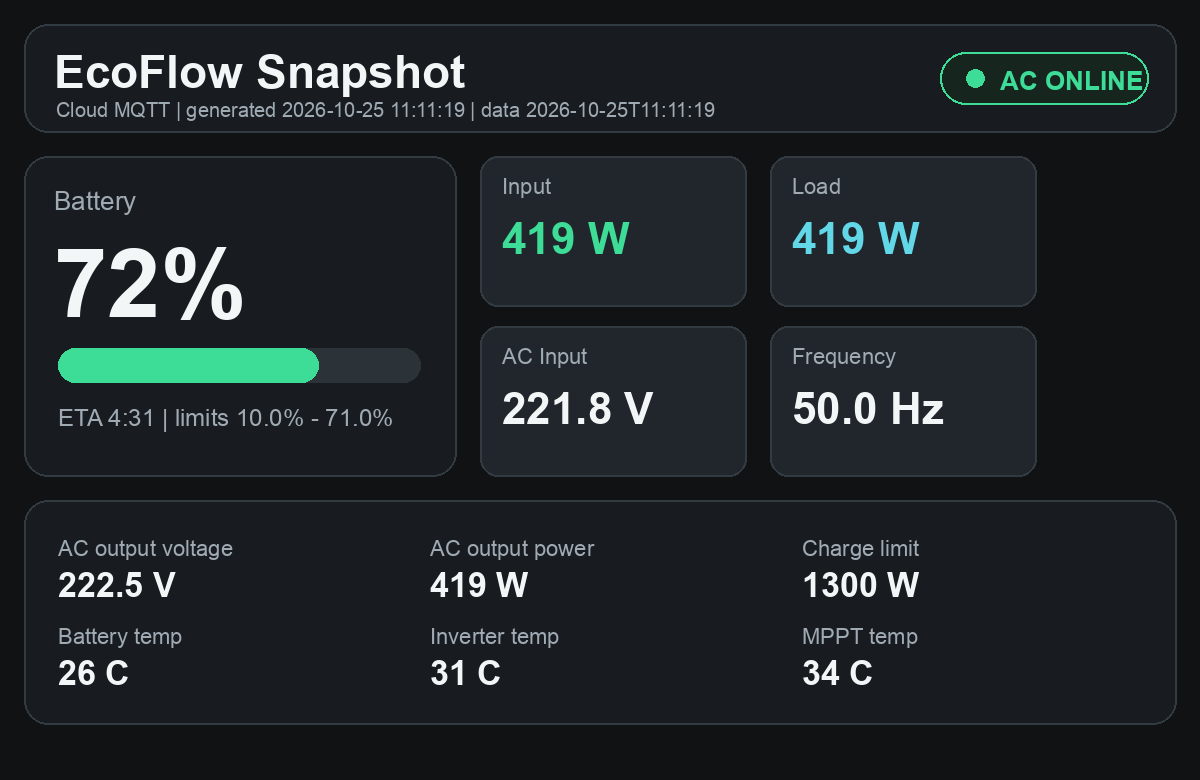
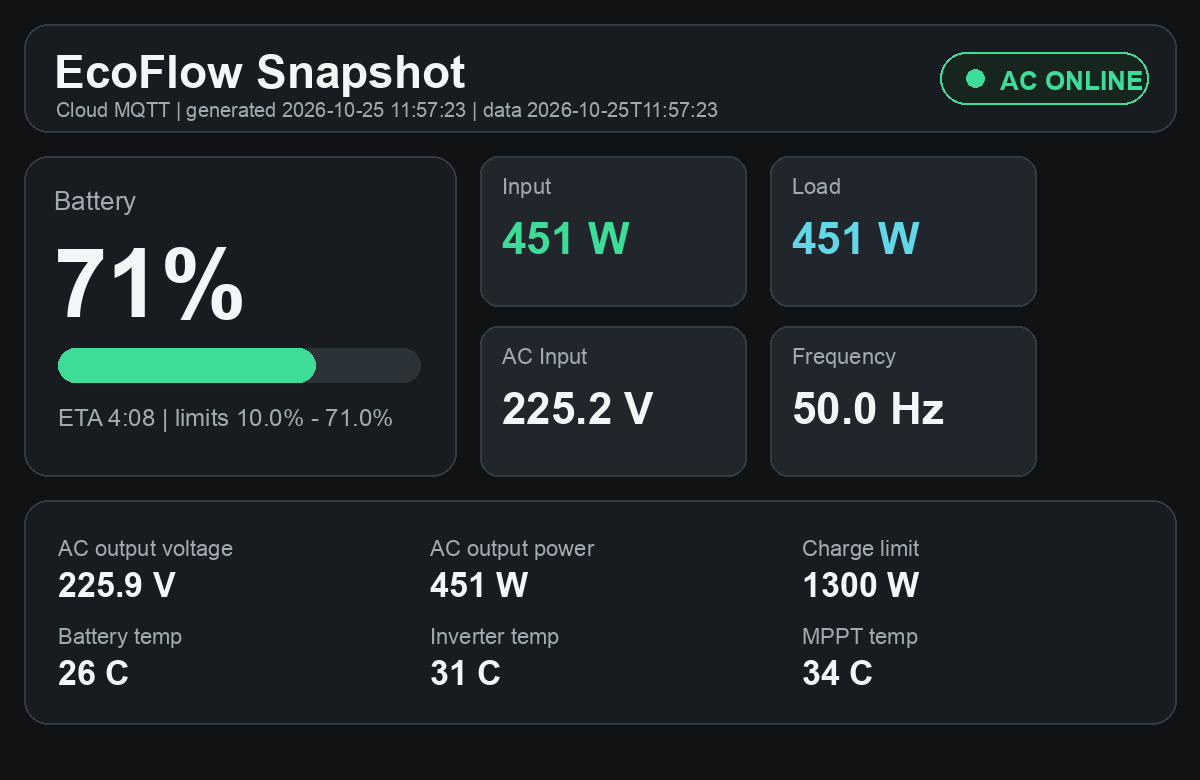
Update EcoFlow dashboard 2026-10-25 11:57:24

diff --git a/index.html b/index.html
@@ -75,7 +75,7 @@
       overflow: hidden;
       margin-top: 14px;
     }
-    .fill { width: 72%; height: 100%; background: linear-gradient(90deg, var(--green), var(--cyan)); }
+    .fill { width: 71%; height: 100%; background: linear-gradient(90deg, var(--green), var(--cyan)); }
     .cards {
       display: grid;
       grid-template-columns: repeat(4, minmax(0, 1fr));
@@ -177,7 +177,7 @@
   <header>
     <div>
       <h1>EcoFlow Snapshot</h1>
-      <div class="sub">Cloud MQTT · generated 2026-10-25T11:11:19 · data 2026-10-25T11:11:19</div>
+      <div class="sub">Cloud MQTT · generated 2026-10-25T11:57:23 · data 2026-10-25T11:57:23</div>
     </div>
     <div class="status online"><span class="dot"></span><span>AC online</span></div>
   </header>
@@ -187,22 +187,22 @@
   <div class="grid">
     <section>
       <h2>Battery</h2>
-      <div class="value">72%</div>
+      <div class="value">71%</div>
       <div class="battery"><div class="fill"></div></div>
-      <div class="row"><span>ETA</span><span>4:31</span></div>
+      <div class="row"><span>ETA</span><span>4:08</span></div>
       <div class="row"><span>SOC limits</span><span>10.0% - 71.0%</span></div>
     </section>
     <section>
       <h2>AC</h2>
-      <div class="row"><span>Input voltage</span><span>221.8 V</span></div>
+      <div class="row"><span>Input voltage</span><span>225.2 V</span></div>
       <div class="row"><span>Input frequency</span><span>50.0 Hz</span></div>
-      <div class="row"><span>Output voltage</span><span>222.5 V</span></div>
+      <div class="row"><span>Output voltage</span><span>225.9 V</span></div>
     </section>
   </div>
 
   <div class="cards">
-    <div class="card"><span class="label">Input</span><span class="value">419 W</span></div>
-    <div class="card"><span class="label">Load</span><span class="value">419 W</span></div>
+    <div class="card"><span class="label">Input</span><span class="value">451 W</span></div>
+    <div class="card"><span class="label">Load</span><span class="value">451 W</span></div>
     <div class="card"><span class="label">Battery temp</span><span class="value">26°C</span></div>
     <div class="card"><span class="label">Inverter temp</span><span class="value">31°C</span></div>
   </div>
@@ -212,13 +212,13 @@
       <h2>Останні 24 години</h2>
       <div class="daily-grid">
         <div class="daily-item"><span class="label">Напруга min / max</span><strong>222 V / 231 V</strong><small>25.10 11:11 / 25.10 04:35</small></div>
-        <div class="daily-item"><span class="label">SOC min / max</span><strong>72% / 80%</strong><small>25.10 08:55 / 24.10 12:33</small></div>
+        <div class="daily-item"><span class="label">SOC min / max</span><strong>71% / 79%</strong><small>25.10 11:57 / 24.10 13:04</small></div>
         <div class="daily-item"><span class="label">Пік навантаження</span><strong>637 W</strong><small>24.10 17:23</small></div>
         <div class="daily-item"><span class="label">Зарядний ліміт</span><strong>1300 W</strong><small>пік входу 637 W · 49% ліміту</small></div>
         <div class="daily-item"><span class="label">Заряджання</span><strong>0 сек</strong><small>--</small></div>
         <div class="daily-item"><span class="label">Розряджання</span><strong>0 сек</strong><small>--</small></div>
-        <div class="daily-item"><span class="label">Енергія вхід / вихід</span><strong>425 Wh / 425 Wh</strong><small>оцінка за sample-ами</small></div>
-        <div class="daily-item"><span class="label">Частота min / max</span><strong>50.0 Hz / 50.0 Hz</strong><small>24.10 12:33 / 24.10 12:33</small></div>
+        <div class="daily-item"><span class="label">Енергія вхід / вихід</span><strong>418 Wh / 418 Wh</strong><small>оцінка за sample-ами</small></div>
+        <div class="daily-item"><span class="label">Частота min / max</span><strong>50.0 Hz / 50.0 Hz</strong><small>24.10 13:04 / 24.10 13:04</small></div>
       </div>
     </section>
     
@@ -249,24 +249,24 @@
   &quot;ok&quot;: true,
   &quot;source&quot;: &quot;Cloud MQTT&quot;,
   &quot;device&quot;: &quot;DELTA Pro&quot;,
-  &quot;timestamp&quot;: &quot;2026-10-25T11:11:19&quot;,
+  &quot;timestamp&quot;: &quot;2026-10-25T11:57:23&quot;,
   &quot;grid&quot;: true,
   &quot;battery&quot;: {
-    &quot;soc&quot;: 72,
+    &quot;soc&quot;: 71,
     &quot;min&quot;: 10.0,
     &quot;max&quot;: 71.0,
-    &quot;eta&quot;: &quot;4:31&quot;
+    &quot;eta&quot;: &quot;4:08&quot;
   },
   &quot;power&quot;: {
-    &quot;in&quot;: 419,
-    &quot;out&quot;: 419,
-    &quot;acOut&quot;: 419,
+    &quot;in&quot;: 451,
+    &quot;out&quot;: 451,
+    &quot;acOut&quot;: 451,
     &quot;chargeLimit&quot;: 1300
   },
   &quot;ac&quot;: {
-    &quot;inputVoltage&quot;: 221.779,
+    &quot;inputVoltage&quot;: 225.151,
     &quot;inputFreq&quot;: 50.0,
-    &quot;outputVoltage&quot;: 222.539
+    &quot;outputVoltage&quot;: 225.922
   },
   &quot;temps&quot;: {
     &quot;battery&quot;: 26,
@@ -392,15 +392,15 @@
   &quot;telemetry&quot;: {
     &quot;window&quot;: &quot;24h&quot;,
     &quot;sample_count&quot;: 33,
-    &quot;from&quot;: &quot;2026-10-24T12:33:45&quot;,
-    &quot;to&quot;: &quot;2026-10-25T11:11:19&quot;,
+    &quot;from&quot;: &quot;2026-10-24T13:04:16&quot;,
+    &quot;to&quot;: &quot;2026-10-25T11:57:23&quot;,
     &quot;latest&quot;: {
       &quot;mode&quot;: &quot;idle&quot;,
       &quot;grid&quot;: true,
-      &quot;soc&quot;: 72.0,
-      &quot;ac_v&quot;: 221.779,
-      &quot;in_w&quot;: 419.0,
-      &quot;out_w&quot;: 419.0,
+      &quot;soc&quot;: 71.0,
+      &quot;ac_v&quot;: 225.151,
+      &quot;in_w&quot;: 451.0,
+      &quot;out_w&quot;: 451.0,
       &quot;charge_limit_w&quot;: 1300.0
     },
     &quot;voltage&quot;: {
@@ -414,21 +414,21 @@
       },
       &quot;frequency_min&quot;: {
         &quot;value&quot;: 50.0,
-        &quot;ts&quot;: &quot;2026-10-24T12:33:45&quot;
+        &quot;ts&quot;: &quot;2026-10-24T13:04:16&quot;
       },
       &quot;frequency_max&quot;: {
         &quot;value&quot;: 50.0,
-        &quot;ts&quot;: &quot;2026-10-24T12:33:45&quot;
+        &quot;ts&quot;: &quot;2026-10-24T13:04:16&quot;
       }
     },
     &quot;soc&quot;: {
       &quot;min&quot;: {
-        &quot;value&quot;: 72.0,
-        &quot;ts&quot;: &quot;2026-10-25T08:55:33&quot;
+        &quot;value&quot;: 71.0,
+        &quot;ts&quot;: &quot;2026-10-25T11:57:23&quot;
       },
       &quot;max&quot;: {
-        &quot;value&quot;: 80.0,
-        &quot;ts&quot;: &quot;2026-10-24T12:33:45&quot;
+        &quot;value&quot;: 79.0,
+        &quot;ts&quot;: &quot;2026-10-24T13:04:16&quot;
       }
     },
     &quot;power&quot;: {
@@ -446,8 +446,8 @@
       },
       &quot;charge_limit_w&quot;: 1300.0,
       &quot;max_input_pct_of_current_limit&quot;: 49,
-      &quot;input_wh_est&quot;: 424.9,
-      &quot;load_wh_est&quot;: 424.9
+      &quot;input_wh_est&quot;: 418.2,
+      &quot;load_wh_est&quot;: 418.2
     },
     &quot;modes&quot;: {
       &quot;charging_sec&quot;: 0,
